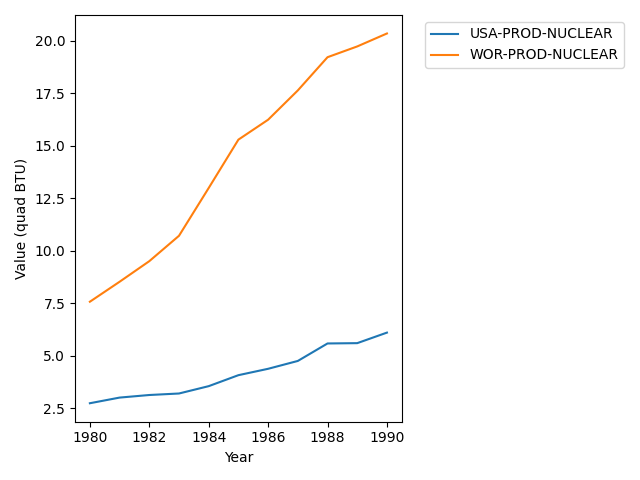
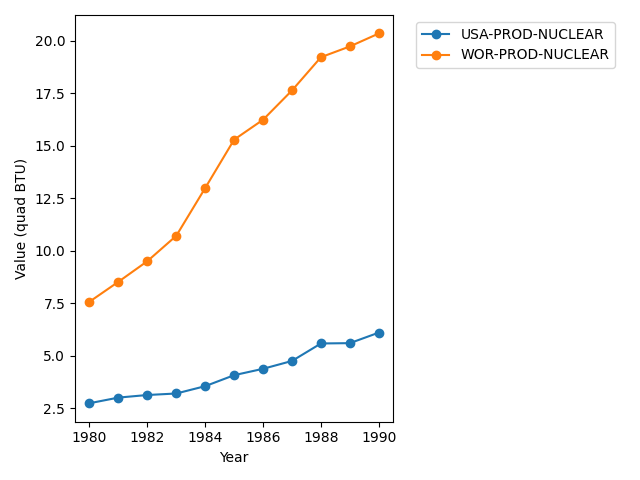
add -o flag to data on plot

diff --git a/src/worker.py b/src/worker.py
@@ -48,7 +48,7 @@ def create_graph(jid):
                 values.append(float(value))
                 available_years.append(int(year))
             
-        plt.plot(available_years, values, label = key)
+        plt.plot(available_years, values, '-o', label = key)
 
     plt.xlabel('Year')
     plt.ylabel('Value (quad BTU)')

diff --git a/docs/user.md b/docs/user.md
@@ -57,7 +57,7 @@ The following routes are for information, or resetting/clearing data from the da
 /clear/images          clears database containing image file data
 ```
 
-IMPORTANT: The `/reset` must be run if `dump.rdb` was not downloaded.
+*IMPORTANT*: The `/reset` must be run to make sure the proper data is in the database.
 
 ```
 root@bradenp-debug-py-deployment-59b4df4576-lnjpr:/# curl '10.98.23.226:5000/reset'
